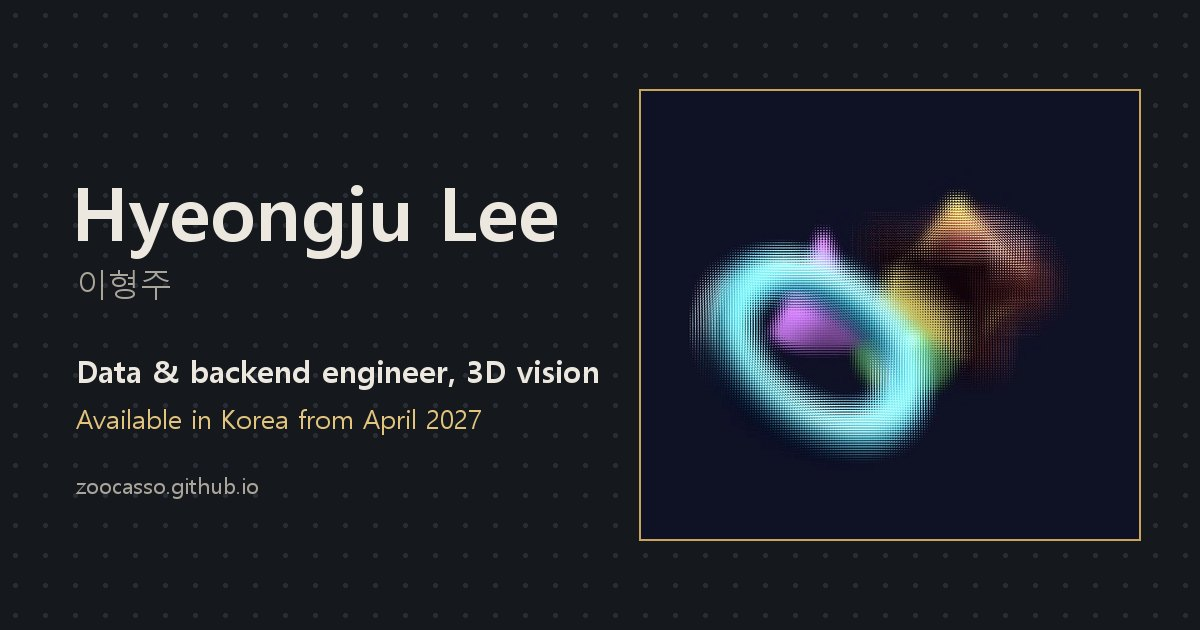
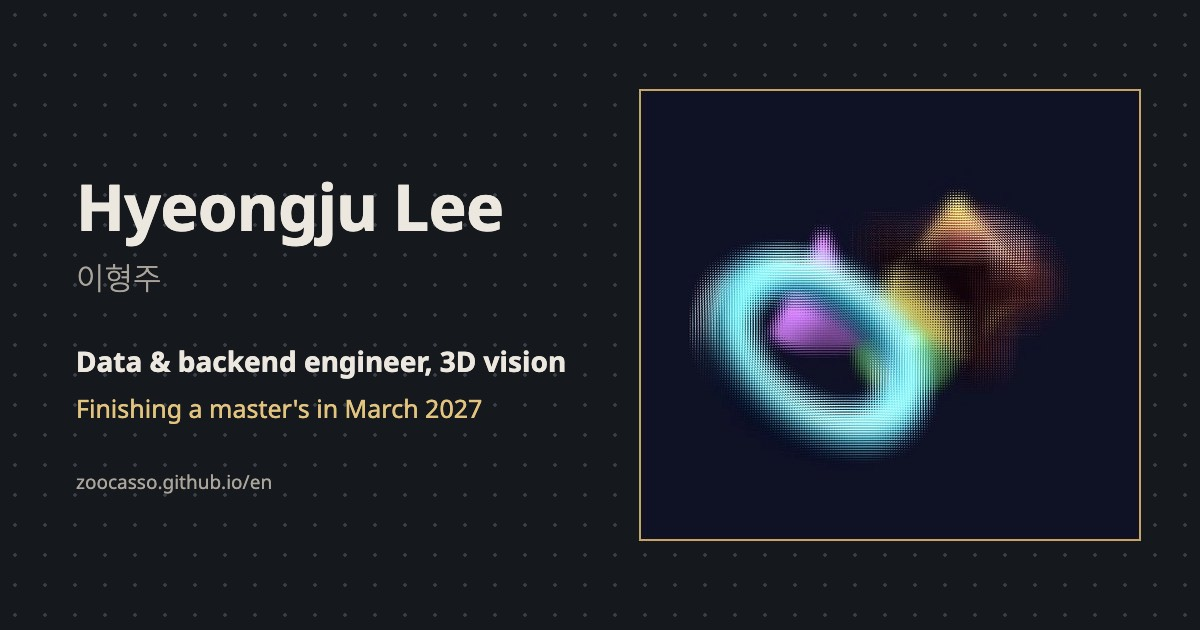
Review fixes: role and proof first, KISTI first, facts that match the code
From the six-role review of 2026-11-05 and the owner's decisions:
- Status everywhere is the graduation date only ("2027년 3월 석사 졸업 예정",
  "Finishing my master's in March 2027", "2027年3月 修士課程修了予定"); new
  share images for all three languages.
- Hero: smaller name, larger role, and one line of proof (80M+ rows collected
  and loaded, ICMV 2026 Best Poster Award). Korean and English list KISTI
  before Hitachi; "In numbers" shows the ~1 TB genome references instead of
  the category count.
- Genomics: the joins are described as the code does them (position key for
  dbSNP and 1000 Genomes, rsID and allele for GWAS and UniProt), and the
  server is "on the company network, never a public service". Home cards
  mark the bio_fastapi code as rewritten in 2026.
- KISTI: the laptop crawling farm is told as the problem that led to the
  proposed API switch, with the reasons recorded in MASTER.
- Japanese: 日立グループ, wording fixes from the Japanese HR review, business
  Japanese in the status line, 兵役修了 only on the CV page, and the robot
  greets with ようこそ.
- Counts: PDF links and email copy buttons carry GoatCounter click events,
  and starting the lab counts once. The home page drops the footer email chip
  that repeated the contact section.
- The lab link names the paper's method (RIM).

Changed region(s): [[0.0617, 0.5429, 0.4933, 0.6937], [0.0617, 0.2714, 0.4625, 0.4825], [0.0617, 0.754, 0.2158, 0.7841]]

diff --git a/src/pages/ja/index.html b/src/pages/ja/index.html
@@ -1,11 +1,12 @@
-<!--meta {"home": true, "title": "イ・ヒョンジュ｜データ・バックエンドエンジニア", "description": "データ収集・蓄積パイプラインとバックエンドを2年5か月開発し、現在はレンズアレイ画像からの3次元再構成を研究しています。2027年4月から入社可能。", "nav": "", "body": "home", "head": "<script src=\"/assets/lab.js?v={{v}}\" defer></script>\n"} -->
+<!--meta {"home": true, "title": "イ・ヒョンジュ｜データ・バックエンドエンジニア", "description": "データ収集・蓄積パイプラインとバックエンドを2年5か月開発し、現在はレンズアレイ画像からの3次元再構成を研究しています。2027年3月 修士課程修了予定。", "nav": "", "body": "home", "head": "<script src=\"/assets/lab.js?v={{v}}\" defer></script>\n"} -->
 <section class="lab" id="lab" aria-label="レンズアレイ実験室">
   <div class="intro">
     <h1>{{f:name}}<span class="alt" lang="en">{{f:name_alt}}</span></h1>
     <p class="role">{{f:role}}</p>
+    <p class="proof"><b>{{f:kisti_rows}}</b>のデータを収集・蓄積 · ICMV 2026 <b>最優秀ポスター賞</b></p>
     <p class="lede">韓国のVision Insideで{{f:career_len}}（{{f:career_span}}）、データパイプラインとバックエンドを開発しました。現在は九州工業大学大学院の修士課程で、レンズアレイ画像からの3次元再構成を研究しています。</p>
     <ul class="stack" aria-label="主な技術"><li>Python</li><li>SQL</li><li>FastAPI</li><li>MySQL·MariaDB</li><li>Docker</li><li>AWS</li></ul>
-    <p class="status">{{f:status}} · 兵役修了</p>
+    <p class="status">{{f:status}} · 日本語ビジネス会話</p>
     <div class="ctas">
       <a class="btn primary" href="/files/HyeongjuLee_CV_EN.pdf" hreflang="en">CV（英語・PDF）</a>
       <a class="btn" href="/files/HyeongjuLee_Portfolio_EN.pdf" hreflang="en">ポートフォリオ（英語・PDF）</a>
@@ -54,7 +55,7 @@
       <input type="range" id="lab-depth" min="0" max="100" step="1" value="0" disabled data-depth>
       <output for="lab-depth" data-depth-out>–</output>
     </div>
-    <a class="lab-how" href="/en/research/rim/#lab" hreflang="en">仕組み（英語）<span aria-hidden="true">→</span></a>
+    <a class="lab-how" href="/en/research/rim/#lab" hreflang="en">論文の手法 RIM（英語）<span aria-hidden="true">→</span></a>
     <button class="sound needs-gl" type="button" data-sound>
       <svg viewBox="0 0 24 24" aria-hidden="true"><path d="M4 9h4l5-4v14l-5-4H4z"></path><path class="x" d="M17 9l5 6M22 9l-5 6" style="display:none"></path><path class="w" d="M17 8.5a5 5 0 0 1 0 7M19.5 6a8.5 8.5 0 0 1 0 12"></path></svg>
       <span class="label">音を消す</span>
@@ -70,7 +71,7 @@
   <header><h2 id="h-facts">数字で見る</h2></header>
   <dl class="facts">
     <div><dt>{{f:kisti_rows}}</dt><dd>KISTI（韓国科学技術情報研究院）の公共R&amp;Dプラットフォームに収集・蓄積した商品・調達データ<small>収集・蓄積・提供を担当。2023年11月時点で、Danawa（韓国の価格比較サイト）のレビュー1,605万件、調達属性4,192万件を含む</small></dd></div>
-    <div><dt>2,481</dt><dd>収集したDanawaの商品カテゴリ<small>全2,517のうち。Amazonの商品は商品ID（ASIN）で重複をまとめ、{{f:kisti_asin}}を{{f:kisti_asin_dedup}}に整理</small></dd></div>
+    <div><dt>{{f:bio_ref}}</dt><dd>ゲノム変異のアノテーション用に蓄積した公開リファレンス<small>dbSNP 237 GB、1000 Genomes 770 GBを染色体ごとに分割し、チャンク単位で蓄積。バックエンドとパイプラインを実装</small></dd></div>
     <div><dt>{{f:kisti_match}}</dt><dd>NTIS（韓国の国家研究開発情報）の研究課題と企業を、キーワードで結んだマッチング（SQL）<small>プラットフォームの課題–企業マッチングモデルをSQLで実装し、バッチで実行</small></dd></div>
     <div><dt>{{f:wjmax_peak}}</dt><dd>ゲームサーバーWJMaxがアップデート時に受けた最大同時接続数<small>平均{{f:wjmax_avg}}。Cloudflare・AWS EC2・RDSで運用し、2人チームでサーバー・DB・セキュリティを担当</small></dd></div>
   </dl>
@@ -81,10 +82,10 @@
   <p class="note-lang">各プロジェクトの詳細ページは英語です。</p>
   <ol class="log work">
     <li><a class="row" href="/en/work/hitachi/" hreflang="en">
-      <span class="when">2025.04 – 現在<br>九工大研究室 研究補助員（パートタイム）</span>
-      <div><h3>日立との受託研究における画像データパイプライン</h3>
-        <p>保守できない状態だった既存コードを書き直し、産業用マシンビジョンカメラの制御・撮影から学習用データセットの前処理までをPythonのパイプラインにまとめました。開発者ではない研究員が自分で使えるPyQtのGUIも用意しました。</p>
-        <span class="key">設計を後任の研究員2名に引き継ぎ、2026年9〜10月にオランダで現地展開</span></div>
+      <span class="when">2025.04 – 現在<br>九州工業大学の研究室 研究補助員（非常勤）</span>
+      <div><h3>日立グループとの受託研究における画像データパイプライン</h3>
+        <p>保守が難しくなっていた既存コードを全面的に作り直し、産業用マシンビジョンカメラの制御・撮影から学習用データセットの前処理までをPythonのパイプラインにまとめました。開発者ではない研究員が自分で使えるPyQtのGUIも用意しました。</p>
+        <span class="key">設計を研究室の後輩2名に引き継ぎ、2026年9〜10月にオランダで現地導入</span></div>
       <span class="flow" aria-label="パイプライン"><span>カメラ制御</span><i></i><span>撮影</span><i></i><span class="core">前処理</span><i></i><span>データセット</span></span>
     </a></li>
     <li><a class="row" href="/en/work/kisti/" hreflang="en">
@@ -95,7 +96,7 @@
       <span class="flow" aria-label="パイプライン"><span>クローラー・API収集</span><i></i><span class="core">リモートDB（MySQL）</span><i></i><span>モデルのバッチ実行</span><i></i><span>FastAPI</span></span>
     </a></li>
     <li class="compact"><a class="row" href="/en/work/wjmax/" hreflang="en">
-      <span class="when">{{f:wjmax_period}}<br>個人プロジェクト、2人チーム</span>
+      <span class="when">{{f:wjmax_period}}<br>有志2人のサイドプロジェクト</span>
       <div><h3>コミュニティのリズムゲームWJMaxのサーバー</h3>
         <span class="key">アップデート時に最大<b>{{f:wjmax_peak}}</b>が同時接続、FastAPI・EC2・RDS</span></div>
     </a><a class="code" href="https://github.com/zoocasso/wjmax-game-server" target="_blank" rel="noopener">GitHubのコード（2026年に書き直し）</a></li>
@@ -103,7 +104,7 @@
       <span class="when">{{f:bio_period}}<br>Vision Inside、社内プロジェクト</span>
       <div><h3>ゲノム変異のアノテーション・リスクレポートのバックエンド</h3>
         <span class="key">公開リファレンスに対する4段階のSQLアノテーション、FastAPIのJSON API、Docker。バックエンドとパイプラインを実装</span></div>
-    </a><a class="code" href="https://github.com/zoocasso/bio_fastapi" target="_blank" rel="noopener">GitHubのコード</a></li>
+    </a><a class="code" href="https://github.com/zoocasso/bio_fastapi" target="_blank" rel="noopener">GitHubのコード（2026年に書き直し）</a></li>
   </ol>
 </section>
 
@@ -129,7 +130,7 @@
   <header><h2 id="h-contact">連絡先</h2></header>
   <div class="contact-wrap">
     <div class="contact-main">
-      <p class="lead">{{f:status}}。データエンジニアリング、バックエンド開発、ビジョンデータパイプラインの職種を探しています。</p>
+      <p class="lead">{{f:status}}。データエンジニアリング、バックエンド開発、ビジョンデータパイプラインのソフトウェア開発職を志望しています。</p>
       <div class="contact">
         <div class="email strong" data-email-user="{{f:email_user}}" data-email-domain="{{f:email_domain}}" hidden><a class="addr"><svg class="i" viewBox="0 0 20 20" aria-hidden="true" focusable="false"><rect x="2.5" y="4.5" width="15" height="11" rx="1.5"/><path d="M3 5.5l7 5.5 7-5.5"/></svg><span class="v"></span></a><button class="copy" type="button" aria-label="メールアドレスをコピー" data-done="コピーしました" data-manual="選択しました"><svg class="i on-idle" viewBox="0 0 20 20" aria-hidden="true" focusable="false"><rect x="7" y="7" width="10" height="10" rx="1.5"/><path d="M13 7V4.5A1.5 1.5 0 0 0 11.5 3h-7A1.5 1.5 0 0 0 3 4.5v7A1.5 1.5 0 0 0 4.5 13H7"/></svg><svg class="i on-done" viewBox="0 0 20 20" aria-hidden="true" focusable="false"><path d="M4 10.5l4 4 8-9"/></svg><span class="t">コピー</span></button><span class="sr" aria-live="polite"></span></div>
         <a class="btn" href="/files/HyeongjuLee_CV_EN.pdf" hreflang="en">CV（英語・PDF）</a>

diff --git a/src/pages/ko/index.html b/src/pages/ko/index.html
@@ -1,8 +1,9 @@
-<!--meta {"home": true, "title": "이형주, 데이터·백엔드 엔지니어", "description": "데이터 수집·적재 파이프라인과 백엔드를 2년 5개월 만들었고, 지금은 렌즈 배열 영상으로 3D 장면을 재구성하는 연구를 합니다. 2027년 4월부터 국내 입사 가능.", "nav": "", "body": "home", "head": "<script src=\"/assets/lab.js?v={{v}}\" defer></script>\n"} -->
+<!--meta {"home": true, "title": "이형주, 데이터·백엔드 엔지니어", "description": "데이터 수집·적재 파이프라인과 백엔드를 2년 5개월 만들었고, 지금은 렌즈 배열 영상으로 3D 장면을 재구성하는 연구를 합니다. 2027년 3월 석사 졸업 예정.", "nav": "", "body": "home", "head": "<script src=\"/assets/lab.js?v={{v}}\" defer></script>\n"} -->
 <section class="lab" id="lab" aria-label="렌즈 배열 실험실">
   <div class="intro">
     <h1>{{f:name}}<span class="alt" lang="en">{{f:name_alt}}</span></h1>
     <p class="role">{{f:role}}</p>
+    <p class="proof"><b>{{f:kisti_rows}}</b> 데이터 <span class="nw">수집·적재</span> · ICMV 2026 <b>최우수 포스터상</b></p>
     <p class="lede">비전인사이드에서 {{f:career_len}}({{f:career_span}}, 대리) 동안 데이터 <span class="nw">수집·적재</span> 파이프라인과 백엔드를 만들었고, 지금은 규슈공업대학교 석사과정에서 렌즈 배열 영상의 3D 재구성을 연구합니다.</p>
     <ul class="stack" aria-label="주로 쓰는 기술"><li>Python</li><li>SQL</li><li>FastAPI</li><li>MySQL·MariaDB</li><li>Docker</li><li>AWS</li></ul>
     <p class="status">{{f:status}} · 병역필</p>
@@ -54,7 +55,7 @@
       <input type="range" id="lab-depth" min="0" max="100" step="1" value="0" disabled data-depth>
       <output for="lab-depth" data-depth-out>–</output>
     </div>
-    <a class="lab-how" href="/research/rim/#lab" aria-label="이 장면은 어떻게 만들었나요"><span class="long">이 장면은 어떻게 만들었나요</span><span class="short">장면 설명</span><span aria-hidden="true">→</span></a>
+    <a class="lab-how" href="/research/rim/#lab" aria-label="논문 방법(RIM): 이 장면은 어떻게 만들었나요"><span class="long">이 장면은 어떻게 만들었나요</span><span class="short">논문 방법(RIM)</span><span aria-hidden="true">→</span></a>
     <button class="sound needs-gl" type="button" data-sound>
       <svg viewBox="0 0 24 24" aria-hidden="true"><path d="M4 9h4l5-4v14l-5-4H4z"></path><path class="x" d="M17 9l5 6M22 9l-5 6" style="display:none"></path><path class="w" d="M17 8.5a5 5 0 0 1 0 7M19.5 6a8.5 8.5 0 0 1 0 12"></path></svg>
       <span class="label">소리 끄기</span>
@@ -70,7 +71,7 @@
   <header><h2 id="h-facts">숫자로 보면</h2></header>
   <dl class="facts">
     <div><dt>{{f:kisti_rows}}</dt><dd>KISTI 발주 공공 R&amp;D 플랫폼에 <span class="nw">수집·적재</span>한 <span class="nw">상품·조달</span> 데이터<small>수집·적재·서빙 전담. 2023년 11월 기준, 다나와 리뷰 1,605만 건, 조달 속성 4,192만 건 포함</small></dd></div>
-    <div><dt>2,481개</dt><dd>수집한 다나와 상품 카테고리<small>전체 2,517개 중. Amazon 상품은 ID(ASIN) 기준으로 겹친 것을 합쳐 {{f:kisti_asin}}를 {{f:kisti_asin_dedup}}로 정리</small></dd></div>
+    <div><dt>{{f:bio_ref}}</dt><dd>유전체 변이 주석에 쓰려고 적재한 공개 레퍼런스<small>dbSNP 237 GB, 1000 Genomes 770 GB를 염색체 단위로 나눠 청크로 적재. 백엔드·파이프라인 구현</small></dd></div>
     <div><dt>{{f:kisti_match}}</dt><dd>NTIS 과제와 기업을 키워드로 이은 매칭 (SQL)<small>플랫폼의 과제–기업 매칭 모델을 SQL로 구현해 일괄 실행</small></dd></div>
     <div><dt>{{f:wjmax_peak}}</dt><dd>WJMax 게임 서버가 업데이트 때 받은 최대 동시 접속<small>평균 {{f:wjmax_avg}}. Cloudflare·AWS EC2·RDS로 운영, 2인 팀에서 서버·DB·보안 담당</small></dd></div>
   </dl>
@@ -79,19 +80,19 @@
 <section class="section" aria-labelledby="h-work">
   <header><h2 id="h-work">작업</h2><a class="more" href="/work/">모든 작업 보기</a></header>
   <ol class="log work">
-    <li><a class="row" href="/work/hitachi/">
-      <span class="when">2025.04 – 현재<br>규슈공대 연구실, 지원연구원(파트타임)</span>
-      <div><h3>히타치 수탁연구 이미지 데이터 파이프라인</h3>
-        <p>유지보수할 수 없던 기존 코드를 다시 써서, 산업용 머신비전 카메라 제어·촬영부터 학습용 데이터셋 전처리까지 Python 파이프라인으로 만들고 비개발자 연구원용 PyQt GUI를 제공했습니다.</p>
-        <span class="key">후임 연구원 2명에게 설계 인계, 2026년 9~10월 네덜란드 현지 배포</span></div>
-      <span class="flow" aria-label="처리 흐름"><span>카메라 제어</span><i></i><span>촬영</span><i></i><span class="core">전처리</span><i></i><span>데이터셋</span></span>
-    </a></li>
     <li><a class="row" href="/work/kisti/">
       <span class="when">{{f:kisti_period}}<br>비전인사이드, KISTI 발주 과제</span>
       <div><h3>KISTI 공공 R&amp;D 플랫폼의 데이터 수집·적재</h3>
         <p>Amazon·다나와 크롤러와 조달청 API 수집기를 만들어 원격 DB 한 곳에 적재했고, 쇼핑몰 직접 크롤링을 API 수집으로 바꾸자고 제안해 반영했습니다. 그 데이터로 모델 일괄 실행(배치)과 FastAPI 관리 화면까지 냈습니다.</p>
         <span class="key"><b>{{f:kisti_rows}}</b>, 수집·적재·서빙 전담</span></div>
       <span class="flow" aria-label="처리 흐름"><span>크롤러·API 수집</span><i></i><span class="core">원격 DB(MySQL)</span><i></i><span>모델 일괄 실행</span><i></i><span>FastAPI</span></span>
+    </a></li>
+    <li><a class="row" href="/work/hitachi/">
+      <span class="when">2025.04 – 현재<br>규슈공대 연구실, 지원연구원(파트타임)</span>
+      <div><h3>히타치 수탁연구 이미지 데이터 파이프라인</h3>
+        <p>유지보수할 수 없던 기존 코드를 다시 써서, 산업용 머신비전 카메라 제어·촬영부터 학습용 데이터셋 전처리까지 Python 파이프라인으로 만들고 비개발자 연구원용 PyQt GUI를 제공했습니다.</p>
+        <span class="key">후임 연구원 2명에게 설계 인계, 2026년 9~10월 네덜란드 현지 배포</span></div>
+      <span class="flow" aria-label="처리 흐름"><span>카메라 제어</span><i></i><span>촬영</span><i></i><span class="core">전처리</span><i></i><span>데이터셋</span></span>
     </a></li>
     <li class="compact"><a class="row" href="/work/wjmax/">
       <span class="when">{{f:wjmax_period}}<br>사이드 프로젝트, 2인 팀</span>
@@ -102,7 +103,7 @@
       <span class="when">{{f:bio_period}}<br>비전인사이드, 사내 과제</span>
       <div><h3>유전체 변이 주석·위험도 리포트 백엔드</h3>
         <span class="key">공개 레퍼런스 4단계 SQL 주석, FastAPI JSON API, Docker 배포. 백엔드·파이프라인 구현</span></div>
-    </a><a class="code" href="https://github.com/zoocasso/bio_fastapi" target="_blank" rel="noopener">GitHub 코드</a></li>
+    </a><a class="code" href="https://github.com/zoocasso/bio_fastapi" target="_blank" rel="noopener">GitHub 코드 (2026년 재작성)</a></li>
   </ol>
 </section>
 

diff --git a/src/pages/en/index.html b/src/pages/en/index.html
@@ -1,8 +1,9 @@
-<!--meta {"home": true, "title": "Hyeongju Lee, data & backend engineer", "description": "Data and backend engineer with 29 months of building data pipelines and backends, now researching 3D reconstruction from lens array images. Available in Korea from April 2027.", "nav": "", "body": "home", "head": "<script src=\"/assets/lab.js?v={{v}}\" defer></script>\n"} -->
+<!--meta {"home": true, "title": "Hyeongju Lee, data & backend engineer", "description": "Data and backend engineer with 29 months of building data pipelines and backends, now researching 3D reconstruction from lens array images. Finishing a master's in March 2027.", "nav": "", "body": "home", "head": "<script src=\"/assets/lab.js?v={{v}}\" defer></script>\n"} -->
 <section class="lab" id="lab" aria-label="Lens array lab">
   <div class="intro">
     <h1>{{f:name}}<span class="alt" lang="ko">{{f:name_alt}}</span></h1>
     <p class="role">{{f:role}}</p>
+    <p class="proof"><b>{{f:kisti_rows}}</b> of data collected and loaded · ICMV 2026 <b>Best Poster Award</b></p>
     <p class="lede">{{f:career_len}} at Vision Inside ({{f:career_span}}, assistant manager) building data pipelines and backends. Now a master's student at Kyushu Institute of Technology, researching 3D reconstruction from lens array images.</p>
     <ul class="stack" aria-label="Main tools"><li>Python</li><li>SQL</li><li>FastAPI</li><li>MySQL·MariaDB</li><li>Docker</li><li>AWS</li></ul>
     <p class="status">{{f:status}} · military service completed</p>
@@ -54,7 +55,7 @@
       <input type="range" id="lab-depth" min="0" max="100" step="1" value="0" disabled data-depth>
       <output for="lab-depth" data-depth-out>–</output>
     </div>
-    <a class="lab-how" href="/en/research/rim/#lab">How it works<span aria-hidden="true">→</span></a>
+    <a class="lab-how" href="/en/research/rim/#lab">Method (RIM)<span aria-hidden="true">→</span></a>
     <button class="sound needs-gl" type="button" data-sound>
       <svg viewBox="0 0 24 24" aria-hidden="true"><path d="M4 9h4l5-4v14l-5-4H4z"></path><path class="x" d="M17 9l5 6M22 9l-5 6" style="display:none"></path><path class="w" d="M17 8.5a5 5 0 0 1 0 7M19.5 6a8.5 8.5 0 0 1 0 12"></path></svg>
       <span class="label">Sound off</span>
@@ -70,7 +71,7 @@
   <header><h2 id="h-facts">In numbers</h2></header>
   <dl class="facts">
     <div><dt>{{f:kisti_rows}}</dt><dd>Product and procurement data I collected and loaded for a KISTI public R&amp;D platform<small>Collection, loading and serving were mine. As of November 2023, including 16M Danawa reviews and 42M procurement attribute rows</small></dd></div>
-    <div><dt>2,481</dt><dd>Danawa product categories collected<small>Out of 2,517. Amazon products listed under several categories were merged by product ID (ASIN), {{f:kisti_asin}} into {{f:kisti_asin_dedup}}</small></dd></div>
+    <div><dt>{{f:bio_ref}}</dt><dd>Public genome references loaded for variant annotation<small>dbSNP 237 GB and 1000 Genomes 770 GB, split by chromosome and loaded in chunks; backend and pipeline developer</small></dd></div>
     <div><dt>{{f:kisti_match}}</dt><dd>NTIS projects matched to companies by keyword (SQL)<small>The platform's project–company matching model, built in SQL and run as a batch</small></dd></div>
     <div><dt>{{f:wjmax_peak}}</dt><dd>Peak concurrent players on the WJMax game server during updates<small>{{f:wjmax_avg}} on average. Run on Cloudflare, AWS EC2 and RDS; I handled server, database and security in a team of two</small></dd></div>
   </dl>
@@ -79,19 +80,19 @@
 <section class="section" aria-labelledby="h-work">
   <header><h2 id="h-work">Work</h2><a class="more" href="/en/work/">All work</a></header>
   <ol class="log work">
-    <li><a class="row" href="/en/work/hitachi/">
-      <span class="when">Apr 2025 – now<br>Kyutech lab, research assistant (part-time)</span>
-      <div><h3>Image-data pipeline for commissioned research with Hitachi</h3>
-        <p>I rewrote an unmaintainable inherited codebase into a Python pipeline that runs from machine-vision camera control and capture to model-ready datasets, with a PyQt GUI that non-developer researchers use themselves.</p>
-        <span class="key">Design handed over to two junior researchers; deployed on site in the Netherlands, Sep–Oct 2026</span></div>
-      <span class="flow" aria-label="Pipeline"><span>Camera control</span><i></i><span>Capture</span><i></i><span class="core">Preprocessing</span><i></i><span>Dataset</span></span>
-    </a></li>
     <li><a class="row" href="/en/work/kisti/">
       <span class="when">{{f:kisti_period}}<br>Vision Inside, KISTI project</span>
       <div><h3>Data collection and loading for a KISTI public R&amp;D platform</h3>
         <p>I built crawlers for Amazon and Danawa and collectors for the procurement service API, and loaded everything into one remote database; I also proposed moving from crawling shopping sites to APIs, which was adopted. On top of that data I shipped scheduled model runs and a FastAPI admin interface.</p>
         <span class="key"><b>{{f:kisti_rows}}</b>; collection, loading and serving were mine</span></div>
       <span class="flow" aria-label="Pipeline"><span>Crawlers and APIs</span><i></i><span class="core">Remote DB (MySQL)</span><i></i><span>Scheduled model runs</span><i></i><span>FastAPI</span></span>
+    </a></li>
+    <li><a class="row" href="/en/work/hitachi/">
+      <span class="when">Apr 2025 – now<br>Kyutech lab, research assistant (part-time)</span>
+      <div><h3>Image-data pipeline for commissioned research with Hitachi</h3>
+        <p>I rewrote an unmaintainable inherited codebase into a Python pipeline that runs from machine-vision camera control and capture to model-ready datasets, with a PyQt GUI that non-developer researchers use themselves.</p>
+        <span class="key">Design handed over to two junior researchers; deployed on site in the Netherlands, Sep–Oct 2026</span></div>
+      <span class="flow" aria-label="Pipeline"><span>Camera control</span><i></i><span>Capture</span><i></i><span class="core">Preprocessing</span><i></i><span>Dataset</span></span>
     </a></li>
     <li class="compact"><a class="row" href="/en/work/wjmax/">
       <span class="when">{{f:wjmax_period}}<br>Side project, team of two</span>
@@ -102,7 +103,7 @@
       <span class="when">{{f:bio_period}}<br>Vision Inside, internal project</span>
       <div><h3>Backend for genomic variant annotation and risk reports</h3>
         <span class="key">Four-stage SQL annotation over public references, FastAPI JSON API, Docker; backend and pipeline developer</span></div>
-    </a><a class="code" href="https://github.com/zoocasso/bio_fastapi" target="_blank" rel="noopener">Code on GitHub</a></li>
+    </a><a class="code" href="https://github.com/zoocasso/bio_fastapi" target="_blank" rel="noopener">Code on GitHub (rewritten 2026)</a></li>
   </ol>
 </section>
 

diff --git a/src/pages/ja/cv.html b/src/pages/ja/cv.html
@@ -18,8 +18,8 @@
 <section class="section" aria-labelledby="h-career">
   <header><h2 id="h-career">職歴</h2></header>
   <ul class="timeline">
-    <li><span class="when">2025.04 – 現在</span><div><b>九工大研究室 研究補助員（パートタイム）</b><span class="sub">マシンビジョンカメラの制御・撮影からデータセットの前処理までを行う画像データパイプラインと、PyQtのGUI（日立との受託研究）。設計を後任の研究員2名に引き継ぎ、2026年9〜10月にオランダで現地展開。<a href="/en/work/hitachi/" hreflang="en">詳細（英語）</a></span></div></li>
-    <li><span class="when">2022.07 – 2024.11</span><div><b>Vision Inside（韓国）代理（主任相当）、データ・バックエンドエンジニア（{{f:career_len}}）</b><span class="sub">2022年7月〜2024年7月、産業技能要員として兵役を修了。<a href="/en/work/kisti/" hreflang="en">KISTIデータプラットフォーム</a>（収集・蓄積・提供を担当、{{f:kisti_rows}}）、<a href="/en/work/genomics/" hreflang="en">ゲノム変異のバックエンド</a>（バックエンドとパイプラインを実装、公開リファレンス{{f:bio_ref}}）、生命保険のデータツール（3人チーム）</span></div></li>
+    <li><span class="when">2025.04 – 現在</span><div><b>九州工業大学の研究室 研究補助員（非常勤）</b><span class="sub">マシンビジョンカメラの制御・撮影からデータセットの前処理までを行う画像データパイプラインと、PyQtのGUI（日立グループとの受託研究）。設計を研究室の後輩2名に引き継ぎ、2026年9〜10月にオランダで現地導入。<a href="/en/work/hitachi/" hreflang="en">詳細（英語）</a></span></div></li>
+    <li><span class="when">2022.07 – 2024.11</span><div><b>Vision Inside（韓国）代理（主任相当）、データ・バックエンドエンジニア（{{f:career_len}}）</b><span class="sub">2022年7月〜2024年7月、産業技能要員（兵役の代わりに指定企業で働く韓国の制度）として兵役を修了。<a href="/en/work/kisti/" hreflang="en">KISTIデータプラットフォーム</a>（収集・蓄積・提供を担当、{{f:kisti_rows}}）、<a href="/en/work/genomics/" hreflang="en">ゲノム変異のバックエンド</a>（バックエンドとパイプラインを実装、公開リファレンス{{f:bio_ref}}）、生命保険のデータツール（3人チーム）</span></div></li>
   </ul>
 </section>
 
@@ -55,7 +55,7 @@
     <li><span class="when">資格</span><div><b>SQL開発者（SQLD）</b><span class="sub">韓国データ産業振興院、2023年10月</span></div></li>
     <li><span class="when">受賞</span><div><b>ICMV 2026 最優秀ポスター賞（Best Poster Award）</b><span class="sub">2026年10月、ブダペスト。「Angular-to-Spatial Information Redistribution via Ray-based Inverse Mapping」、筆頭著者。<a href="/en/research/rim/" hreflang="en">RIM（英語）</a></span></div></li>
     <li><span class="when">奨学金</span><div><b>ロータリー米山記念奨学生</b><span class="sub">2026年、日本語の面接で選考</span></div></li>
-    <li><span class="when">出張・発表</span><div><b>オランダ出張（2026年9〜10月）</b><span class="sub">受託研究のシステムを現地展開。学会発表はバンコク（ITC-CSCC 2026、7月、口頭）、ブダペスト（ICMV 2026、10月16日、ポスター、最優秀ポスター賞）、札幌（ICCAS 2026、10月30日、ポスター）</span></div></li>
+    <li><span class="when">出張・発表</span><div><b>オランダ出張（2026年9〜10月）</b><span class="sub">受託研究のシステムを現地導入。学会発表はバンコク（ITC-CSCC 2026、7月、口頭）、ブダペスト（ICMV 2026、10月16日、ポスター、最優秀ポスター賞）、札幌（ICCAS 2026、10月30日、ポスター）</span></div></li>
     <li><span class="when">語学</span><div><b>韓国語（母語）、日本語（ビジネス会話）、英語（業務レベル）</b></div></li>
   </ul>
 </section>

diff --git a/src/assets/site.css b/src/assets/site.css
@@ -101,17 +101,20 @@ p{margin:0 0 1em}
 .lab .poster{position:absolute;inset:0;background:var(--plate)}
 .lab .torch{position:absolute;inset:0;pointer-events:none;mix-blend-mode:screen;opacity:var(--ta,0);transition:opacity .5s;background:radial-gradient(460px circle at var(--tx,50%) var(--ty,50%),rgba(227,196,127,.16),rgba(227,196,127,.05) 45%,transparent 70%)}
 .intro{position:absolute;left:var(--gutter);top:clamp(28px,6vh,64px);width:min(470px,40%);z-index:2}
-.intro h1{font-size:clamp(46px,5.2vw,74px);letter-spacing:-.02em;line-height:1.02}
+.intro h1{font-size:clamp(40px,4.3vw,60px);letter-spacing:-.02em;line-height:1.02}
 .intro h1 .alt{display:block;font-weight:200;font-size:.42em;letter-spacing:0;color:var(--mute);margin-top:10px}
 /* English and Japanese run longer, so their introduction gets a little more width while it lies over the lab;
    below 1180px it spans the page (see the narrow layout) */
 @media (min-width:1180px){html[lang=en] .intro,html[lang=ja] .intro{width:min(530px,40%)}}
-html[lang=en] .intro h1{font-size:clamp(40px,4vw,58px)}
+html[lang=en] .intro h1{font-size:clamp(36px,3.5vw,50px)}
 html[lang=en] .intro h1 .alt{font-size:.5em}
 /* the katakana name stays on one line; the Latin name under it keeps the light Latin face, which the mincho would replace */
-html[lang=ja] .intro h1{font-size:clamp(36px,3.9vw,56px);white-space:nowrap}
+html[lang=ja] .intro h1{font-size:clamp(34px,3.4vw,48px);white-space:nowrap}
 html[lang=ja] .intro h1 .alt{font-family:'Hahmlet',serif;font-size:.52em}
-.intro .role{font-size:18px;margin:22px 0 0;color:var(--paper)}
+/* the role and one line of proof come first after the name: what he does, and the scale he has done it at */
+.intro .role{font-size:23px;font-weight:500;line-height:1.35;margin:18px 0 0;color:var(--paper)}
+.intro .proof{font-size:15.5px;margin:8px 0 0;color:var(--paper)}
+.intro .proof b{color:var(--brass-hi);font-weight:700}
 .intro .lede{font-size:16px;color:var(--mute);margin:12px 0 0;max-width:42ch}
 .intro .stack{display:flex;flex-wrap:wrap;gap:6px;list-style:none;margin:14px 0 0;padding:0}
 .intro .stack li{padding:3px 8px;border:1px solid var(--rule);border-radius:3px;background:var(--veil);font-size:13px;line-height:1.4;color:var(--paper)}

diff --git a/src/pages/ko/work/kisti.html b/src/pages/ko/work/kisti.html
@@ -97,9 +97,7 @@
       <h2 id="h-decisions">주요 결정</h2>
       <ol class="decisions">
         <li><h3>쇼핑몰 직접 크롤링에서 API 수집으로 전환</h3>
-          <dl><dt>경위</dt><dd>쇼핑몰을 직접 크롤링하는 대신 API로 수집하자고 제가 제안했고, 2023년 6월 발주처(KISTI)와 협의해 반영했습니다.</dd><dt>방법</dt><dd>조달청 데이터는 2023년 4월부터 공공데이터포털 API로 받고 있었고, Amazon은 Rainforest API로 옮겼습니다 (2023년 7월 선정, 2024년 2~5월 구현).</dd></dl></li>
-        <li><h3>API 전환 전: 노트북 여러 대로 나눠 수집</h3>
-          <dl><dt>이유</dt><dd>쇼핑몰을 직접 수집하던 2022~2023년 초에는 한곳에서 대량으로 요청하면 수집이 자주 끊겨, 요청을 여러 기기로 나눠 부하를 분산했습니다. 이후 직접 크롤링 대신 공식 API로 수집하자고 제가 제안했고, 발주처와 협의해 전환했습니다(위 항목).</dd><dt>방법</dt><dd>크롤러를 {{f:kisti_farm}}에 나눠 돌리고, 결과는 원격 DB 한 곳에 모았습니다 (2022년 11월 ~ 2023년 1월).</dd></dl></li>
+          <dl><dt>문제</dt><dd>2022~2023년 초에는 쇼핑몰을 직접 크롤링했습니다. 크롤러를 {{f:kisti_farm}}에 나눠 돌려도(2022년 11월 ~ 2023년 1월) 수집이 자주 막혀 끊겼고, 직접 크롤링은 법적 위험도 있었습니다.</dd><dt>제안</dt><dd>공식 API로 수집하자고 제가 제안했고, 2023년 6월 발주처(KISTI)와 협의해 반영했습니다. API 데이터는 형식이 깨끗해 수집 자동화도 쉬워졌습니다.</dd><dt>방법</dt><dd>조달청 데이터는 2023년 4월부터 공공데이터포털 API로 받고 있었고, Amazon은 Rainforest API로 옮겼습니다 (2023년 7월 선정, 2024년 2~5월 구현).</dd></dl></li>
         <li><h3>상품 식별자(ASIN) 기준으로 중복 제거</h3>
           <dl><dt>이유</dt><dd>같은 상품이 여러 카테고리에 동시에 노출되어 카테고리별로 모으면 겹쳤습니다.</dd><dt>결과</dt><dd>Amazon 상품 {{f:kisti_asin}}를 {{f:kisti_asin_dedup}}로 줄였습니다.</dd></dl></li>
       </ol>

diff --git a/src/assets/lab.js b/src/assets/lab.js
@@ -241,7 +241,7 @@ const Face = (() => {
 /* ================= dialogue: Japanese voice line, subtitle in the page language ================= */
 const L = {
   tap: ['クリックすると、音といっしょに始まります。', { ko: '누르면 소리와 함께 시작해요.', en: 'Click to start, with sound.' }],
-  greet: ['いらっしゃいませ。奥行きのちがう物を、レンズで撮って、元に戻してみます。', { ko: '어서 오세요. 깊이가 다른 물체들을 렌즈 배열로 찍었다가 다시 되살려 볼게요.', en: "Welcome. Let's capture objects at different depths through a lens array, then bring them back." }],
+  greet: ['ようこそ。奥行きのちがう物を、レンズで撮って、元に戻してみます。', { ko: '어서 오세요. 깊이가 다른 물체들을 렌즈 배열로 찍었다가 다시 되살려 볼게요.', en: "Welcome. Let's capture objects at different depths through a lens array, then bring them back." }],
   between: ['いまの面は、物と物のあいだです。もう少し動かしてみてください。', { ko: '재구성 면이 물체들 사이에 있어요. 거리를 조금 더 움직여 보세요.', en: 'The plane is between the objects; move the distance a little more.' }],
   A: () => scene.kind === 'lytro'
     ? ['本物のLytroで撮った、レンズごとの画像です。拡大すると、小さな丸い像が並んでいます。', { ko: '실제 Lytro 카메라의 렌즈릿 영상이에요. 렌즈마다 작고 둥근 사진이 있고, 렌즈 하나가 작은 카메라예요.', en: 'A real Lytro capture, as its lenslet image: each lens holds a small round picture, so every lens is a tiny camera.' }]
@@ -1592,6 +1592,8 @@ function startSound() {
 }
 function beginStory() {
   if (!waiting) return;
+  // one visit-count event per page view, so the owner can see how many visitors start the lab
+  if (window.goatcounter && window.goatcounter.count) window.goatcounter.count({ path: 'lab-start', title: 'Lab started', event: true });
   endWait(); opening(++token);
 }
 const GESTURES = ['pointerdown', 'keydown', 'touchend'];

diff --git a/src/pages/en/work/kisti.html b/src/pages/en/work/kisti.html
@@ -97,9 +97,7 @@
       <h2 id="h-decisions">Decisions</h2>
       <ol class="decisions">
         <li><h3>From crawling shopping sites to APIs</h3>
-          <dl><dt>Origin</dt><dd>I proposed collecting through APIs instead of crawling shopping sites, and in June 2023 this was agreed with the client, KISTI, and adopted.</dd><dt>How</dt><dd>Procurement data had come from the public data portal API since April 2023. Amazon moved to the Rainforest API (selected in July 2023, built from February to May 2024).</dd></dl></li>
-        <li><h3>Before the API switch: collection spread over several laptops</h3>
-          <dl><dt>Why</dt><dd>While shopping sites were still crawled directly (2022 to early 2023), large request volumes from one machine kept interrupting collection, so requests were spread across machines to distribute the load. I then proposed collecting through official APIs instead, which was adopted after discussion with the client (above).</dd><dt>How</dt><dd>The crawlers ran on {{f:kisti_farm}} and wrote to one remote database (November 2022 to January 2023).</dd></dl></li>
+          <dl><dt>Problem</dt><dd>From 2022 to early 2023 the shopping sites were crawled directly. Even with the crawlers spread over {{f:kisti_farm}} (November 2022 to January 2023), collection kept getting blocked and interrupted, and direct crawling carried legal risk.</dd><dt>Proposal</dt><dd>I proposed collecting through official APIs instead, and in June 2023 this was agreed with the client, KISTI, and adopted. API data came in a clean format, which also made collection easy to automate.</dd><dt>How</dt><dd>Procurement data had come from the public data portal API since April 2023. Amazon moved to the Rainforest API (selected in July 2023, built from February to May 2024).</dd></dl></li>
         <li><h3>De-duplication by product ID (ASIN)</h3>
           <dl><dt>Why</dt><dd>The same product appeared in several categories, so collecting category by category produced duplicates.</dd><dt>Result</dt><dd>{{f:kisti_asin}} Amazon products became {{f:kisti_asin_dedup}}.</dd></dl></li>
       </ol>

diff --git a/src/pages/ko/work/genomics.html b/src/pages/ko/work/genomics.html
@@ -22,9 +22,9 @@
       <h2 id="h-result">결과</h2>
       <dl class="results">
         <div><dt>{{f:bio_ref}}</dt><dd>적재한 공개 레퍼런스 원본 (dbSNP, 1000 Genomes 등)</dd></div>
-        <div><dt>4단계</dt><dd>(chrom, pos, ref, alt) 기준 SQL 조인으로 변이 주석</dd></div>
+        <div><dt>4단계</dt><dd>위치 키(염색체·위치·REF·ALT)와 rsID로 레퍼런스를 차례로 붙이는 SQL 조인으로 변이 주석</dd></div>
         <div><dt>26개 집단</dt><dd>1000 Genomes 대립유전자 빈도 비교</dd></div>
-        <div><dt>구현·배포</dt><dd>변이 호출부터 API와 운영서버 배포까지 (알고리즘 설계는 팀장과 함께)</dd></div>
+        <div><dt>구현·배포</dt><dd>변이 호출부터 API와 사내망 서버 배포까지 (공개 서비스는 아님, 알고리즘 설계는 팀장과 함께)</dd></div>
       </dl>
     </section>
 
@@ -70,7 +70,7 @@
 
     <section id="load" aria-labelledby="h-load">
       <h2 id="h-load">적재 방법</h2>
-      <p>dbSNP 원본 VCF만 237 GB, 1000 Genomes 원본은 770 GB입니다. 그래서 염색체 단위로 파일을 나누고(sed, split), pandas 청크와 SQLAlchemy로 조금씩 나눠 적재했습니다. 주석은 (chrom, pos, ref, alt)를 기준으로 레퍼런스 테이블을 차례로 붙이는 4단계 SQL 조인입니다.</p>
+      <p>dbSNP 원본 VCF만 237 GB, 1000 Genomes 원본은 770 GB입니다. 그래서 염색체 단위로 파일을 나누고(sed, split), pandas 청크와 SQLAlchemy로 조금씩 나눠 적재했습니다. 주석은 레퍼런스 테이블을 차례로 붙이는 4단계 SQL 조인입니다. dbSNP와 1000 Genomes는 염색체·위치·REF·ALT를 이은 키로, GWAS Catalog는 rsID와 위험 대립유전자로, UniProt은 변이 ID와 대립유전자로 붙입니다. 칩 입력은 rsID로 dbSNP에서 위치 키를 찾습니다.</p>
     </section>
 
     <section id="ref" aria-labelledby="h-ref">

diff --git a/src/pages/en/work/genomics.html b/src/pages/en/work/genomics.html
@@ -22,9 +22,9 @@
       <h2 id="h-result">Results</h2>
       <dl class="results">
         <div><dt>{{f:bio_ref}}</dt><dd>Public reference data loaded (dbSNP, 1000 Genomes and more)</dd></div>
-        <div><dt>4 stages</dt><dd>SQL joins on (chrom, pos, ref, alt) to annotate variants</dd></div>
+        <div><dt>4 stages</dt><dd>SQL joins that attach the references one after another, by position key (chromosome, position, REF, ALT) and by rsID</dd></div>
         <div><dt>26 populations</dt><dd>Allele frequencies compared across 1000 Genomes populations</dd></div>
-        <div><dt>Built and deployed</dt><dd>From variant calling to the API and the production server (algorithm designed with the team lead)</dd></div>
+        <div><dt>Built and deployed</dt><dd>From variant calling to the API and a server on the company network (never a public service; algorithm designed with the team lead)</dd></div>
       </dl>
     </section>
 
@@ -69,7 +69,7 @@
 
     <section id="load" aria-labelledby="h-load">
       <h2 id="h-load">Loading</h2>
-      <p>The dbSNP source VCFs alone are 237 GB, and the 1000 Genomes sources are 770 GB. I split the files by chromosome (sed, split) and loaded them in pandas chunks through SQLAlchemy. Annotation joins the reference tables one after another on (chrom, pos, ref, alt), in four stages.</p>
+      <p>The dbSNP source VCFs alone are 237 GB, and the 1000 Genomes sources are 770 GB. I split the files by chromosome (sed, split) and loaded them in pandas chunks through SQLAlchemy. Annotation joins the reference tables one after another, in four stages: dbSNP and 1000 Genomes on a key of chromosome, position, REF and ALT, the GWAS Catalog on rsID and risk allele, and UniProt on variant ID and allele. Chip input finds its position key in dbSNP by rsID.</p>
     </section>
 
     <section id="ref" aria-labelledby="h-ref">

diff --git a/build.py b/build.py
@@ -135,6 +135,8 @@ def layout(lang, meta, body, path, alts_by_lang, v):
         # the robot's lines appear only once the lab has started, so its font does not hold up the first paint
         fonts += (f'<link rel="preload" as="style" href="{DOT_FONT}" onload="this.onload=null;this.rel=\'stylesheet\'">\n'
                   f'<noscript><link rel="stylesheet" href="{DOT_FONT}"></noscript>\n')
+    # the home page's contact section offers the email right above the footer, so the footer leaves it out there
+    foot_email = "" if meta.get("home") else f'''<div class="email plain" data-email-user="{FACTS['email_user']}" data-email-domain="{FACTS['email_domain']}" hidden><a class="addr"><svg class="i" viewBox="0 0 20 20" aria-hidden="true" focusable="false"><rect x="2.5" y="4.5" width="15" height="11" rx="1.5"/><path d="M3 5.5l7 5.5 7-5.5"/></svg><span class="v"></span></a><button class="copy" type="button" aria-label="{t['copy']}" data-done="{t['copied']}" data-manual="{t['selected']}"><svg class="i on-idle" viewBox="0 0 20 20" aria-hidden="true" focusable="false"><rect x="7" y="7" width="10" height="10" rx="1.5"/><path d="M13 7V4.5A1.5 1.5 0 0 0 11.5 3h-7A1.5 1.5 0 0 0 3 4.5v7A1.5 1.5 0 0 0 4.5 13H7"/></svg><svg class="i on-done" viewBox="0 0 20 20" aria-hidden="true" focusable="false"><path d="M4 10.5l4 4 8-9"/></svg><span class="t">{t['copy_short']}</span></button><span class="sr" aria-live="polite"></span></div>'''
     body_class = meta.get("body", "")
     # the 404 page is served at any missing address, so it names no address of its own and is not indexed
     if path == "/404.html":
@@ -185,7 +187,7 @@ def layout(lang, meta, body, path, alts_by_lang, v):
 <footer class="site-foot">
   <div class="foot-row">
     <span class="foot-name">{fact('name', lang)}</span>
-    <div class="email plain" data-email-user="{FACTS['email_user']}" data-email-domain="{FACTS['email_domain']}" hidden><a class="addr"><svg class="i" viewBox="0 0 20 20" aria-hidden="true" focusable="false"><rect x="2.5" y="4.5" width="15" height="11" rx="1.5"/><path d="M3 5.5l7 5.5 7-5.5"/></svg><span class="v"></span></a><button class="copy" type="button" aria-label="{t['copy']}" data-done="{t['copied']}" data-manual="{t['selected']}"><svg class="i on-idle" viewBox="0 0 20 20" aria-hidden="true" focusable="false"><rect x="7" y="7" width="10" height="10" rx="1.5"/><path d="M13 7V4.5A1.5 1.5 0 0 0 11.5 3h-7A1.5 1.5 0 0 0 3 4.5v7A1.5 1.5 0 0 0 4.5 13H7"/></svg><svg class="i on-done" viewBox="0 0 20 20" aria-hidden="true" focusable="false"><path d="M4 10.5l4 4 8-9"/></svg><span class="t">{t['copy_short']}</span></button><span class="sr" aria-live="polite"></span></div>
+    {foot_email}
     <a href="/files/{t['pdf_file']}">{t['pdf']}</a>
     <a href="{FACTS['github']}" target="_blank" rel="noopener">GitHub</a>
   </div>
@@ -197,6 +199,13 @@ def layout(lang, meta, body, path, alts_by_lang, v):
 
 
 TOKEN = re.compile(r"\{\{\s*f:([a-z0-9_]+)\s*\}\}")
+PDF_LINK = re.compile(r'<a ((?:[^>]*? )?href="/files/([^"]+)\.pdf")')
+
+
+def click_events(page):
+    """GoatCounter counts clicks on elements that carry data-goatcounter-click: PDF links and email copy buttons."""
+    page = PDF_LINK.sub(lambda m: f'<a data-goatcounter-click="pdf-{m.group(2)}" {m.group(1)}', page)
+    return page.replace('<button class="copy" type="button"', '<button class="copy" type="button" data-goatcounter-click="email-copy"')
 META = re.compile(r"^\s*<!--meta\s*(\{.*?\})\s*-->\s*", re.S)
 
 
@@ -243,7 +252,7 @@ def build():
         else:
             path = url_for(lang, rel)
             alts = {k: url_for(k, rel) for k in LANGS if (k, rel) in pages}
-        page = layout(lang, meta, body, path, alts, v)
+        page = click_events(layout(lang, meta, body, path, alts, v))
         out = out_file(path)
         out.parent.mkdir(parents=True, exist_ok=True)
         out.write_text(page, encoding="utf-8")
